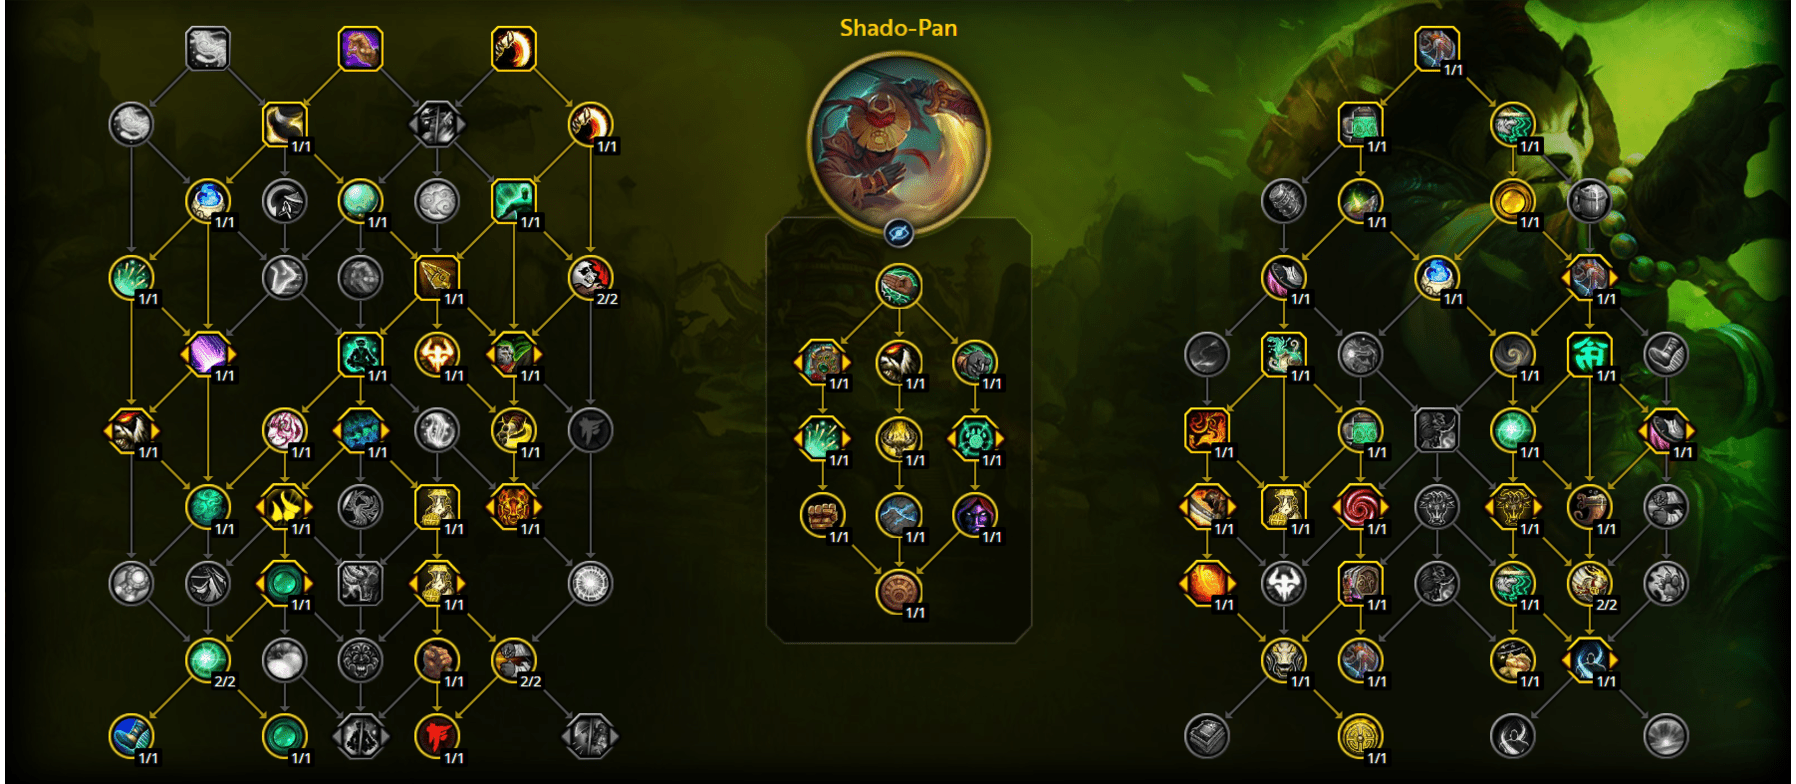
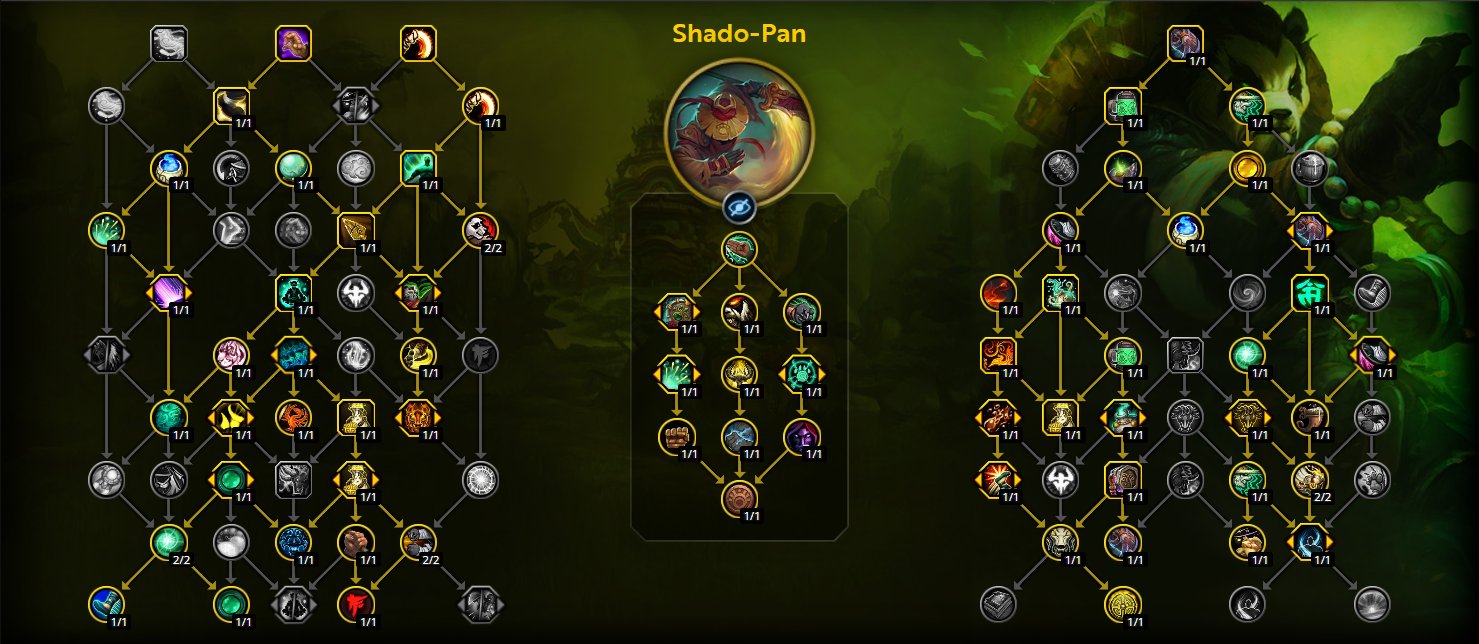
Updated 11.0 guide

diff --git a/myscripts-v3-1.js b/myscripts-v3-1.js
@@ -191,8 +191,8 @@ const infoArray = [
     id: "tiger-tail-sweep",
     name: "<a href='https://www.wowhead.com/spell=264348/tiger-tail-sweep' target='_blank'>Tiger Tail Sweep</a>",
     description:
-      "This talent increases the range of <a href='https://www.wowhead.com/spell=119381/leg-sweep' target='_blank' class='orange'>Leg Sweep</a>, which can be helpful on large AoE packs, where mobs aren't perfectly grouped up. If you have an extra talent, this node is a great choice.",
-    value: "Optional",
+      "This talent increases the range of <a href='https://www.wowhead.com/spell=119381/leg-sweep' target='_blank' class='orange'>Leg Sweep</a>, which can be helpful on large AoE packs, where mobs aren't perfectly grouped up. You are required to take this talent node to access the next node.",
+    value: "Required",
   },
   {
     id: "vigorous-expulsion",
@@ -419,8 +419,8 @@ const infoArray = [
     id: "peace-and-prosperity",
     name: "<a href='https://www.wowhead.com/beta/spell=450448/peace-and-prosperity' target-'_blank'>Peace and Prosperity</a>",
     description:
-      "This talent reduces the cooldown of <a href='https://www.wowhead.com/spell=116844/ring-of-peace' target='_blank' class='orange'>Ring of Peace</a> by 5 seconds. There are a ton of better optional nodes that can be taken, so this talent is not recommended.",
-    value: "Never",
+      "This talent reduces the cooldown of <a href='https://www.wowhead.com/spell=116844/ring-of-peace' target='_blank' class='orange'>Ring of Peace</a> by 5 seconds. If you want a cooldown reduction on <a href='https://www.wowhead.com/spell=116844/ring-of-peace' target='_blank' class='orange'>Ring of Peace</a>, then this is a good talent node.",
+    value: "Optional",
   },
   {
     id: "yulon-diffuse",
@@ -476,8 +476,8 @@ const infoArray = [
     id: "windwalking",
     name: "<a href='https://www.wowhead.com/spell=157411/windwalking' target='_blank'>Windwalking</a>",
     description:
-      "This talent grants you and your allies a 4% speed increase. This may sound good, but it is only in a 10 yd radius, making it essentially useless.",
-    value: "Never",
+      "This talent grants you and your allies a 4% speed increase. This can be a good talent node if you have extra points left over.",
+    value: "Optional",
   },
   {
     id: "healing-winds",
@@ -665,8 +665,8 @@ const infoArray = [
     id: "celestial-flames",
     name: "<a href='https://www.wowhead.com/spell=325190/celestial-flames' target='_blank'>Celestial Flames</a>",
     description:
-      "This talent applies our <a href='https://www.wowhead.com/spell=115181/breath-of-fire' target='_blank' class='orange'>Breath of Fire</a> to all targets that are hit by our <a href='https://www.wowhead.com/spell=101546/spinning-crane-kick' target='_blank' class='orange'>Spinning Crane Kick</a>, which serves absolutely no purpose as you can keep <a href='https://www.wowhead.com/spell=115181/breath-of-fire' target='_blank' class='orange'>Breath of Fire</a> up on enemies 100% of the time without it. The extra 5% damage reduction is heavily outweighed by other talents, too.",
-    value: "Never",
+      "This talent applies our <a href='https://www.wowhead.com/spell=115181/breath-of-fire' target='_blank' class='orange'>Breath of Fire</a> to all targets that are hit by our <a href='https://www.wowhead.com/spell=101546/spinning-crane-kick' target='_blank' class='orange'>Spinning Crane Kick</a>, aswell as giving us 5% increased damage reduction. This is very good for our current build, as we have no other way to have 100% uptime on <a href='https://www.wowhead.com/spell=115181/breath-of-fire' target='_blank' class='orange'>Breath of Fire</a>.",
+    value: "Required",
   },
   {
     id: "celestial-brew-talent",
@@ -686,8 +686,8 @@ const infoArray = [
     id: "august-blessing",
     name: "<a href='https://www.wowhead.com/beta/spell=454483/august-blessing' target='_blank'>August Blessing</a>",
     description:
-      "This talent applies a HoT whenever you overheal. If you find yourself overhealing a lot, then this can be ran instead of <a href='https://www.wowhead.com/beta/spell=454484/one-with-the-wind' target='_blank' class='orange'>One With the Wind</a>.",
-    value: "Optional",
+      "This talent applies a HoT whenever you overheal. Currently, there are other talents that are better, so you never want to run this.",
+    value: "Never",
   },
   {
     id: "one-with-the-wind",
@@ -779,7 +779,7 @@ const infoArray = [
     id: "scalding-salabims",
     name: "<a href='https://www.wowhead.com/spell=383698/scalding-brew' target='_blank'>Scalding Brew</a> <span class='white'>/</span> <a href='https://www.wowhead.com/spell=383697/salsalabims-strength' target='_blank'>Sal'salabim's Strength</a>",
     description:
-      "Both <a href='https://www.wowhead.com/spell=383698/scalding-brew' target='_blank' class='orange'>Scalding Brew</a> and <a href='https://www.wowhead.com/spell=383697/salsalabims-strength' target='_blank' class='orange'>Sal'salabim's Strength</a> are very good talents. Due to <a href='https://www.wowhead.com/spell=383697/salsalabims-strength' target='_blank' class='orange'>Sal'salabim's Strength</a> synergizing with our builds more, however, we currently take this talent in every build we play.",
+      "Both <a href='https://www.wowhead.com/spell=383698/scalding-brew' target='_blank' class='orange'>Scalding Brew</a> and <a href='https://www.wowhead.com/spell=383697/salsalabims-strength' target='_blank' class='orange'>Sal'salabim's Strength</a> are very good talents. Due to <a href='https://www.wowhead.com/spell=383698/scalding-brew' target='_blank' class='orange'>Scalding Brew</a> synergizing with our builds more, however, we currently take this talent in every build we play.",
     value: "Required",
   },
   {
@@ -793,7 +793,7 @@ const infoArray = [
     id: "bob-ox-brew",
     name: "<a href='https://www.wowhead.com/spell=280515/bob-and-weave' target='_blank'>Bob and Weave <span class='white'>/</span> <a href='https://www.wowhead.com/spell=115399/black-ox-brew' target='_blank'>Black Ox Brew</a>",
     description:
-      "Both of these talents are extremely good. <a href='https://www.wowhead.com/spell=280515/bob-and-weave' target='_blank' class='orange'>Bob and Weave</a> delays the rate at which our stagger damages us, making us overall tankier. <a href='https://www.wowhead.com/spell=115399/black-ox-brew' target='_blank' class='orange'>Black Ox Brew</a> is a cooldown that allows us to reset the cooldown of all of our brews whenever we want. This season, we want to run <a href='https://www.wowhead.com/spell=280515/bob-and-weave' target='_blank' class='orange'>Bob and Weave</a>, as we already have so many defensive cooldowns.",
+      "Both of these talents are extremely good. <a href='https://www.wowhead.com/spell=280515/bob-and-weave' target='_blank' class='orange'>Bob and Weave</a> delays the rate at which our stagger damages us, making us overall tankier. <a href='https://www.wowhead.com/spell=115399/black-ox-brew' target='_blank' class='orange'>Black Ox Brew</a> is a cooldown that allows us to reset the cooldown of all of our brews whenever we want. This season, we want to run <a href='https://www.wowhead.com/spell=115399/black-ox-brew' target='_blank' class='orange'>Black Ox Brew</a>, as it is a very helpful extra defensive, and can even be used offensively in combination with <a href='https://www.wowhead.com/spell=196730/special-delivery' target='_blank' class='orange'>Special Delivery</a>.",
     value: "Required",
   },
   {
@@ -829,7 +829,7 @@ const infoArray = [
     id: "dragonfire-charred",
     name: "<a href='https://www.wowhead.com/spell=383994/dragonfire-brew' target='_blank'>Dragonfire Brew</a> <span class='white'>/</span> <a href='https://www.wowhead.com/spell=386965/charred-passions' target='_blank'>Charred Passions</a>",
     description:
-      "This season, <a href='https://www.wowhead.com/spell=386965/charred-passions' target='_blank' class='orange'>Charred Passions</a> isn't very strong, but <a href='https://www.wowhead.com/spell=383994/dragonfire-brew' target='_blank' class='orange'>Dragonfire Brew</a> is. <a href='https://www.wowhead.com/spell=383994/dragonfire-brew' target='_blank' class='orange'>Dragonfire Brew</a> increases the damage of our <a href='https://www.wowhead.com/spell=115181/breath-of-fire' target='_blank' class='orange'>Breath of Fire</a> based on 100% of our stagger, making it a good damaging ability on AoE. This should always be taken.",
+      "<a href='https://www.wowhead.com/spell=383994/dragonfire-brew' target='_blank' class='orange'>Dragonfire Brew</a> increases the damage of our <a href='https://www.wowhead.com/spell=115181/breath-of-fire' target='_blank' class='orange'>Breath of Fire</a> based on 100% of our stagger, making it a good damaging ability on AoE. Because of our current build not being surrounded around <a href='https://www.wowhead.com/spell=115181/breath-of-fire' target='_blank' class='orange'>Breath of Fire</a>, we want to take <a href='https://www.wowhead.com/spell=386965/charred-passions' target='_blank' class='orange'>Charred Passions</a>.",
     value: "Required",
   },
   {
@@ -1455,12 +1455,18 @@ const infoArray = [
       "This trinket is extremely strong on single target. When combined with Fyrakk's Tainted Rageheart, it is a very competitive trinket combo in raid for single target fights. On use, it causes our next 5 auto attacks to do massive amounts of damage, along with giving us additional primary stat.",
   },
 
-  // emebellishments
+  // embellishments
   {
     id: "coated-in-slime",
     name: "<a href='https://www.wowhead.com/spell=378423/coated-in-slime' target='_blank'>Coated in Slime</a>",
     description:
       "This embellishment does pretty good damage on single target. It can only be obtained by crafting Slimy Expulsion Boots, which, fortunately for us, has good secondary stats.",
+  },
+  {
+    id: "darkmoon-sigil-symbiosis",
+    name: "<a href='https://www.wowhead.com/item=226030/darkmoon-sigil-symbiosis' target='_blank'>Darkmoon Sigil: Symbiosis</a>",
+    description:
+      "This embellishment puts a tiny DoT on us, in exchange for a 889 Versatility. This Versatility stacks up to 5 times, making it very strong.",
   },
   {
     id: "writhing-armor-banding",

diff --git a/talents.html b/talents.html
@@ -303,8 +303,8 @@
                         --><img id="zen-meditation" src="images/zen-meditation.jpg" onclick="updateInfo(this)"><!--
                         --><img id="strike-at-dawn" src="images/lighter-than-air.jpg" onclick="updateInfo(this)">
                         <h3><a href="https://www.wowhead.com/spell=325190/celestial-flames" target="_blank">Celestial Flames</a></h3>
-                        <h4 class="Never">Never</h4>
-                        <p class="description">This talent applies our <a href="https://www.wowhead.com/spell=115181/breath-of-fire" target="_blank" class="orange">Breath of Fire</a> to all targets that are hit by our <a href="https://www.wowhead.com/spell=101546/spinning-crane-kick" target="_blank" class="orange">Spinning Crane Kick</a>, which serves absolutely no purpose as you can keep <a href="https://www.wowhead.com/spell=115181/breath-of-fire" target="_blank" class="orange">Breath of Fire</a> up on enemies 100% of the time without it. The extra 5% damage reduction is heavily outweighed by other talents, too.</p>
+                        <h4 class="Required">Required</h4>
+                        <p class="description">This talent applies our <a href='https://www.wowhead.com/spell=115181/breath-of-fire' target='_blank' class='orange'>Breath of Fire</a> to all targets that are hit by our <a href='https://www.wowhead.com/spell=101546/spinning-crane-kick' target='_blank' class='orange'>Spinning Crane Kick</a>, aswell as giving us 5% increased damage reduction. This is very good for our current build, as we have no other way to have 100% uptime on <a href='https://www.wowhead.com/spell=115181/breath-of-fire' target='_blank' class='orange'>Breath of Fire</a>.</p>
                     </div>
                     <div class="row-6">
                         <p class="sub-header orange">Row 6</p>
@@ -330,7 +330,7 @@
                         --><img id="counterstrike" src="images/counterstrike.jpg" onclick="updateInfo(this)">
                         <h3><a href="https://www.wowhead.com/spell=383698/scalding-brew" target="_blank">Scalding Brew</a> <span class="white">/</span> <a href="https://www.wowhead.com/spell=383697/salsalabims-strength" target="_blank">Sal'salabim's Strength</a></h3>
                         <h4 class="Required">Required</h4>
-                        <p class="description">Both <a href="https://www.wowhead.com/spell=383698/scalding-brew" target="_blank" class="orange">Scalding Brew</a> and <a href="https://www.wowhead.com/spell=383697/salsalabims-strength" target="_blank" class="orange">Sal'salabim's Strength</a> are very good talents. Due to <a href="https://www.wowhead.com/spell=383697/salsalabims-strength" target="_blank" class="orange">Sal'salabim's Strength</a> synergizing with our builds more, however, we currently take this talent in every build we play.</p>
+                        <p class="description">Both <a href='https://www.wowhead.com/spell=383698/scalding-brew' target='_blank' class='orange'>Scalding Brew</a> and <a href='https://www.wowhead.com/spell=383697/salsalabims-strength' target='_blank' class='orange'>Sal'salabim's Strength</a> are very good talents. Due to <a href='https://www.wowhead.com/spell=383698/scalding-brew' target='_blank' class='orange'>Scalding Brew</a> synergizing with our builds more, however, we currently take this talent in every build we play.</p>
                     </div>
                     <div class="row-8">
                         <p class="sub-header orange">Row 8</p>
@@ -343,7 +343,7 @@
                         --><img id="face-palm" src="images/tiger-palm.jpg" onclick="updateInfo(this)">
                         <h3><a href="https://www.wowhead.com/spell=383994/dragonfire-brew" target="_blank">Dragonfire Brew</a> <span class="white">/</span> <a href="https://www.wowhead.com/spell=386965/charred-passions" target="_blank">Charred Passions</a></a></h3>
                         <h4 class="Required">Required</h4>
-                        <p class="description">This season, <a href='https://www.wowhead.com/spell=386965/charred-passions' target='_blank' class='orange'>Charred Passions</a> isn't very strong, but <a href='https://www.wowhead.com/spell=383994/dragonfire-brew' target='_blank' class='orange'>Dragonfire Brew</a> is. <a href='https://www.wowhead.com/spell=383994/dragonfire-brew' target='_blank' class='orange'>Dragonfire Brew</a> increases the damage of our <a href='https://www.wowhead.com/spell=115181/breath-of-fire' target='_blank' class='orange'>Breath of Fire</a> based on 100% of our stagger, making it a good damaging ability on AoE. This should always be taken.</p>
+                        <p class="description"><a href='https://www.wowhead.com/spell=383994/dragonfire-brew' target='_blank' class='orange'>Dragonfire Brew</a> increases the damage of our <a href='https://www.wowhead.com/spell=115181/breath-of-fire' target='_blank' class='orange'>Breath of Fire</a> based on 100% of our stagger, making it a good damaging ability on AoE. Because of our current build not being surrounded around <a href='https://www.wowhead.com/spell=115181/breath-of-fire' target='_blank' class='orange'>Breath of Fire</a>, we want to take <a href='https://www.wowhead.com/spell=386965/charred-passions' target='_blank' class='orange'>Charred Passions</a>.</p>
                     </div>
                 </div>
                 <div class="grid-container">
@@ -370,7 +370,7 @@
                 </div>
             </section>
             <section id="default-talents" class="image-section">
[2 lines of base64/hex data omitted]
               <p>This is the talent build that I will use in pretty much any situation. If you want to be tankier, you can use one of the two optional talent builds below.</p>
               <img src="images/default-talents-tww1.png">
             </section>
@@ -379,11 +379,11 @@
                 <p>If you want to be tankier, these talent builds are great options. One prioritizes being as tanky as possible, throwing damage to the side, where the other one still maintains high dps on single target.</p>
                 <div class="grid-container">
                     <div id="alternative-talents-1">
[2 lines of base64/hex data omitted]
                         <img src="images/alternative-talents-1-tww1.png">
                     </div>
                     <div id="alternative-talents-2">
[2 lines of base64/hex data omitted]
                         <img src="images/alternative-talents-2-tww1.png">
                     </div>
                 </div>
@@ -392,6 +392,6 @@
                 <h3><a class="orange" href="gearing">Next: Gearing <i class="fa-solid fa-arrow-right"></i></a></h3>
             </section>
         </main>
-        <script src="myscripts-v3.js"></script>
+        <script src="myscripts-v3-1.js"></script>
     </body>
 </html>

diff --git a/playstyle.html b/playstyle.html
@@ -385,10 +385,29 @@
       <section id="woo-burst" class="number-list-section">
         <h2>Weapons of Order Burst</h2>
         <p>
-          Brewmaster has one of the longest and most complex burst rotations in
-          the game. Luckily, this burst rotation remains the same on both single
-          target and AoE, so it comes down to just memorizing every step. If you
-          are running
+          Your goal in the opener is to get 4 stacks of
+          <a
+            href="https://www.wowhead.com/spell=387184/weapons-of-order"
+            target="_blank"
+            class="orange"
+            >Weapons of Order</a
+          >
+          as fast as possible and fit as many gcd's in the 4 stack window as you
+          can. Ideally you save a
+          <a
+            href="https://www.wowhead.com/spell=107428/rising-sun-kick"
+            target="_blank"
+            class="orange"
+            >Rising Sun Kick</a
+          >
+          for the last 0.5 seconds of your
+          <a
+            href="https://www.wowhead.com/spell=387184/weapons-of-order"
+            target="_blank"
+            class="orange"
+            >Weapons of Order</a
+          >
+          window to extend it the most you can. If you are running
           <a
             href="https://www.wowhead.com/spell=116847/rushing-jade-wind"
             target="_blank"
@@ -640,6 +659,6 @@
         </h3>
       </section>
     </main>
-    <script src="myscripts-v3.js"></script>
+    <script src="myscripts-v3-1.js"></script>
   </body>
 </html>

diff --git a/gearing.html b/gearing.html
@@ -431,14 +431,21 @@
       <section id="embellishments" class="info-section">
         <h2>Embellishments</h2>
         <p>
-          This season, there are only two good embellishments for us, and we
-          should always run them.
+          You should run Adrenal Surge Clasp + Crafted Gloves with Writhing
+          Armor Banding until you get 639 gloves. Once you get the gloves, you
+          can swap away from the Adrenal Surge Clasp in exchange for a crafted 1
+          hand weapon with Darkmoon Sigil: Symbiosis.
         </p>
         <div class="middle-spacing">
           <img
             id="adrenal-surge-clasp-embellishment"
             class="selected"
             src="images/adrenal-surge-clasp.jpg"
+            onclick="updateInfo(this)"
+          /><!--
+          --><img
+            id="darkmoon-sigil-symbiosis"
+            src="images/darkmoon-sigil-symbiosis.jpg"
             onclick="updateInfo(this)"
           /><!--
           --><img
@@ -610,6 +617,6 @@
         </h3>
       </section>
     </main>
-    <script src="myscripts-v3.js"></script>
+    <script src="myscripts-v3-1.js"></script>
   </body>
 </html>

diff --git a/index.html b/index.html
@@ -117,6 +117,6 @@
     <video id="back-video" poster="images/poster.png" autoplay loop muted>
       <!--<source src="videos/mop-login-screen.mp4" type="video/mp4">-->
     </video>
-    <script src="myscripts-v3.js"></script>
+    <script src="myscripts-v3-1.js"></script>
   </body>
 </html>

diff --git a/advanced.html b/advanced.html
@@ -580,6 +580,6 @@
         </h3>
       </section>
     </main>
-    <script src="myscripts-v3.js"></script>
+    <script src="myscripts-v3-1.js"></script>
   </body>
 </html>

diff --git a/dungeons.html b/dungeons.html
@@ -683,6 +683,6 @@
         </h3>
       </section>
     </main>
-    <script src="myscripts-v3.js"></script>
+    <script src="myscripts-v3-1.js"></script>
   </body>
 </html>

diff --git a/introduction.html b/introduction.html
@@ -486,6 +486,6 @@
         </h3>
       </section>
     </main>
-    <script src="myscripts-v3.js"></script>
+    <script src="myscripts-v3-1.js"></script>
   </body>
 </html>

diff --git a/404.html b/404.html
@@ -108,6 +108,6 @@
         </li>
       </ul>
     </header>
-    <script src="myscripts-v3.js"></script>
+    <script src="myscripts-v3-1.js"></script>
   </body>
 </html>
